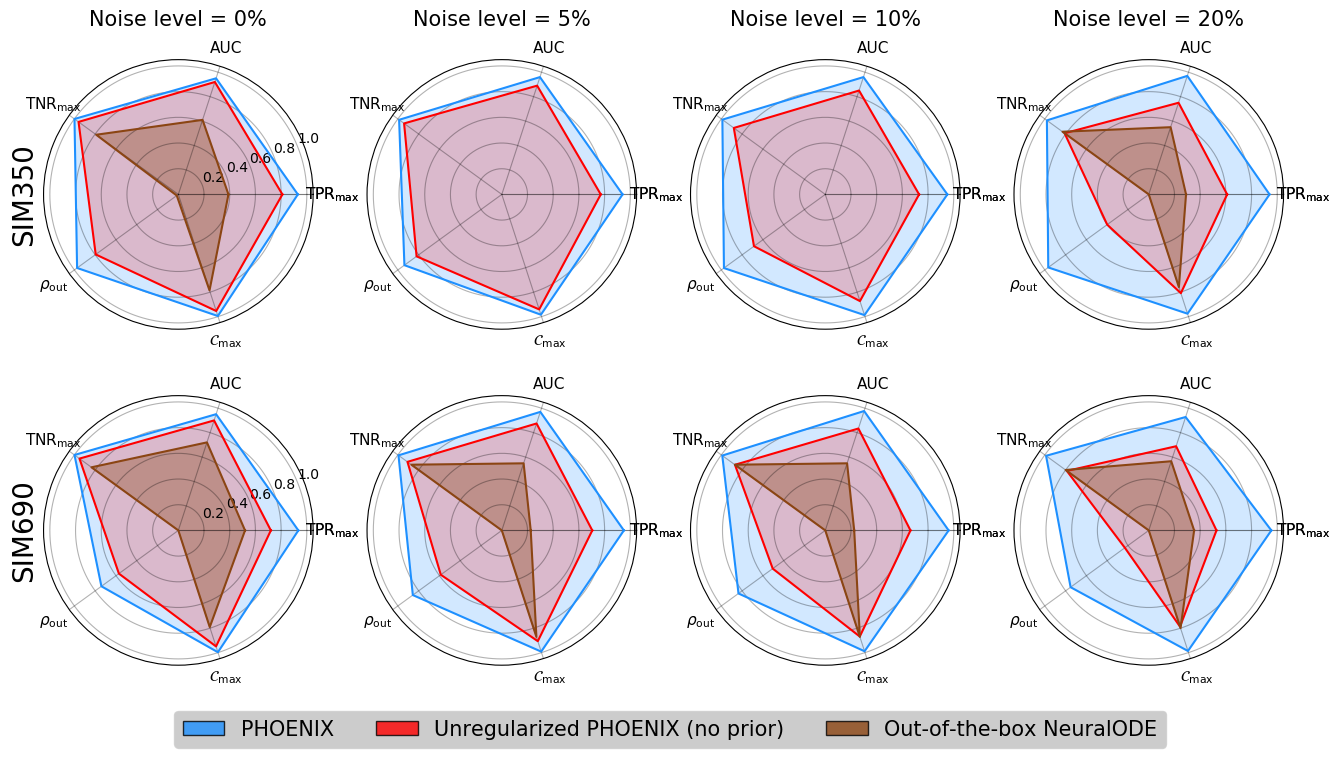
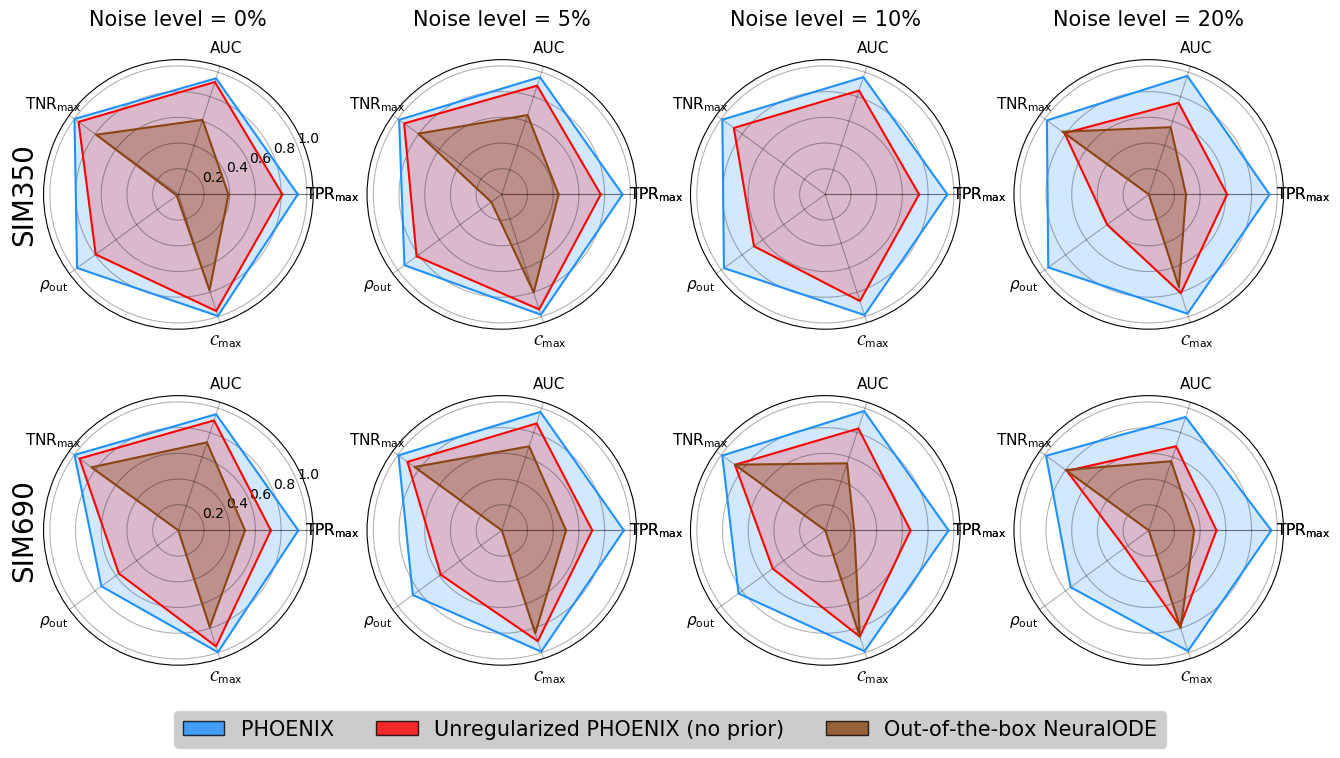
updated auc plot

Changed region(s): [[0.306, 0.1517, 0.4284, 0.3641], [0.306, 0.5765, 0.4284, 0.8193]]

diff --git a/ode_net/code/fig_auc_perf.py b/ode_net/code/fig_auc_perf.py
@@ -91,7 +91,7 @@ if __name__ == "__main__":
                 #ax.tick_params(axis='y', labelsize= tick_lab_size)
 
                 #ax.cla()
-                if not(this_model == "ootb_tanh" and this_data == "sim350" and this_noise in [0.025, 0.05]):
+                if not(this_model == "ootb_tanh" and this_data == "sim350" and this_noise in [0.05]):
                     ax.plot(label_loc, radar_data, color = model_colors[this_model])
                     ax.fill(label_loc, radar_data, facecolor= model_colors[this_model], alpha=model_alphas[this_model])
                     ax.set_thetagrids(angles = np.degrees(label_loc), 
